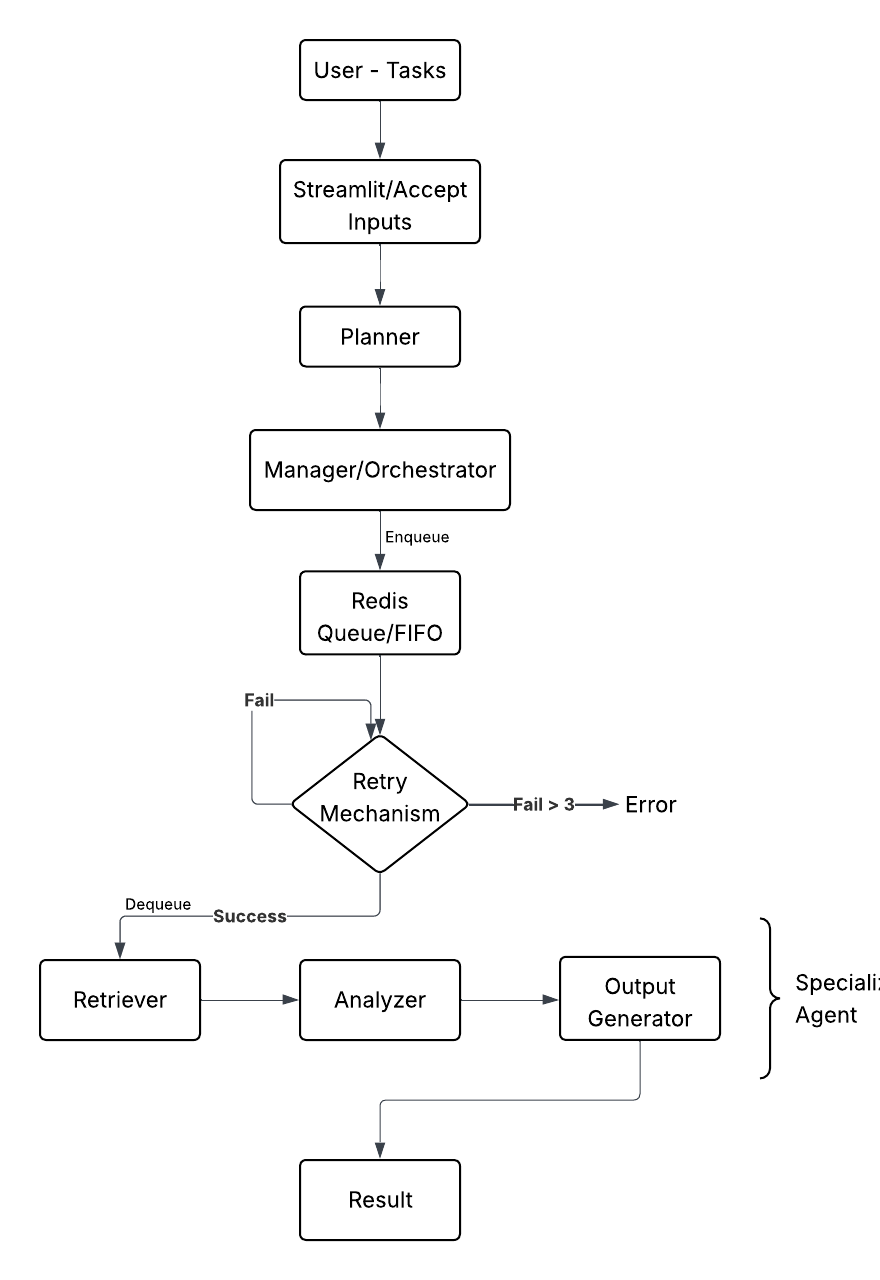
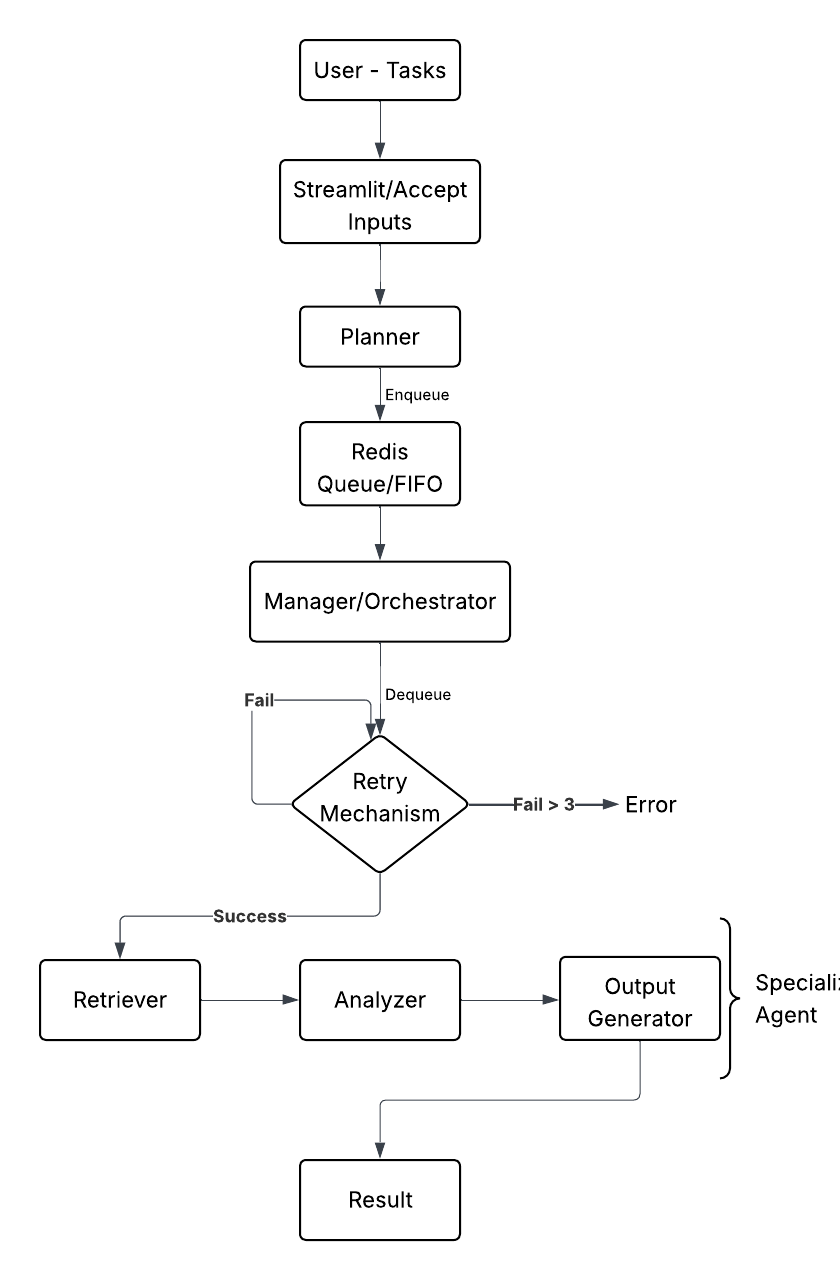
readme upd2

diff --git a/ollama_client.py b/ollama_client.py
@@ -1,10 +1,11 @@
+import json
 import requests
 import os
 import dotenv
 dotenv.load_dotenv()
 
-OLLAMA_URL = os.getenv("Ollama_URL")
-MODEL = os.getenv("Ollama_Model")
+OLLAMA_URL = os.getenv("OLLAMA_URL")
+MODEL = os.getenv("OLLAMA_MODEL")
 
 def call_ollama(prompt: str) -> str:
     response = requests.post(
@@ -16,4 +17,13 @@ def call_ollama(prompt: str) -> str:
         },
         timeout=60
     )
-    return response.json()["response"]
+
+    result = response.text.strip()
+    for line in reversed(result.splitlines()):
+        try:
+            data = json.loads(line)
+            if "response" in data:
+                return data["response"]
+        except json.JSONDecodeError:
+            continue
+    return result

diff --git a/app.py b/app.py
@@ -23,6 +23,8 @@ if run_btn and user_input:
     async def exec():
         return await run_task(plan, user_input, stream)
 
-    result = asyncio.run(exec())
+    loop = asyncio.new_event_loop()
+    asyncio.set_event_loop(loop)
+    result = loop.run_until_complete(exec())
     output.success("✅ Completed")
     st.write(result)

diff --git a/README.md b/README.md
@@ -125,7 +125,6 @@ To improve efficiency and demonstrate scalability awareness, manual batching is 
 
 - Explicit batching logic in code
 - Reduced number of LLM calls
-- Clear throughput vs latency trade-offs
 
 ## Architecture Flow 
  ![Flow](Agent-flow.png)
@@ -133,15 +132,16 @@ To improve efficiency and demonstrate scalability awareness, manual batching is 
 
 ## Scaling Issues
 
-One scaling issue encountered was the use of a single Redis queue and a single worker execution loop. While this design is sufficient for demonstration and low concurrency, it can become a bottleneck under high load, as all agent tasks compete for the same queue and are processed sequentially. This limits throughput and increases latency when multiple tasks are submitted concurrently.
+One scaling issue encountered was the use of a single Redis queue and a single worker execution loop. While this design is sufficient for demonstration and low concurrency, it can become a bottleneck under high load, as all agent tasks compete for the same queue and are processed sequentially. This limits throughput and increases latency when multiple tasks are submitted concurrently. So, for this purpose separate queues can be used for each agent so all agents work independently without affecting others.
 
 ## Design Changes
 
 A design decision that would be changed in a production setting is the use of a rule-based planner for task classification. Although this approach is simple and deterministic, it lacks flexibility and does not generalize well to diverse or ambiguous user inputs. In a real-world system, this component would be replaced with an LLM-based task router that generates structured execution plans dynamically, with validation enforced at the orchestration layer.
+Also, retry mechanism can be improved as failure causes entire execution of the agent from the start.
 
 ## Trade-offs made during development
 
-Several trade-offs were made to balance clarity, reliability, and scope. The system prioritizes explicit orchestration and transparency over maximum performance, resulting in simpler but more understandable execution flow. Redis workers are embedded within the orchestrator to reduce deployment complexity, at the cost of true horizontal scalability. Additionally, document input is handled as pasted text instead of file uploads to keep the focus on agent coordination rather than data ingestion. These trade-offs were intentional to emphasize core agentic concepts while keeping the system lightweight and easy to explain.
+Several trade-offs were made to balance clarity, reliability, and scope. The system prioritizes explicit orchestration and transparency over maximum performance, resulting in simpler but more understandable execution flow. Redis workers are embedded within the manager to reduce complexity. Additionally, document input is handled as pasted text instead of file uploads to keep the focus on agent coordination rather than data ingestion. These trade-offs were intentional to emphasize core agentic concepts while keeping the system lightweight and easy to explain.
 
 
 
